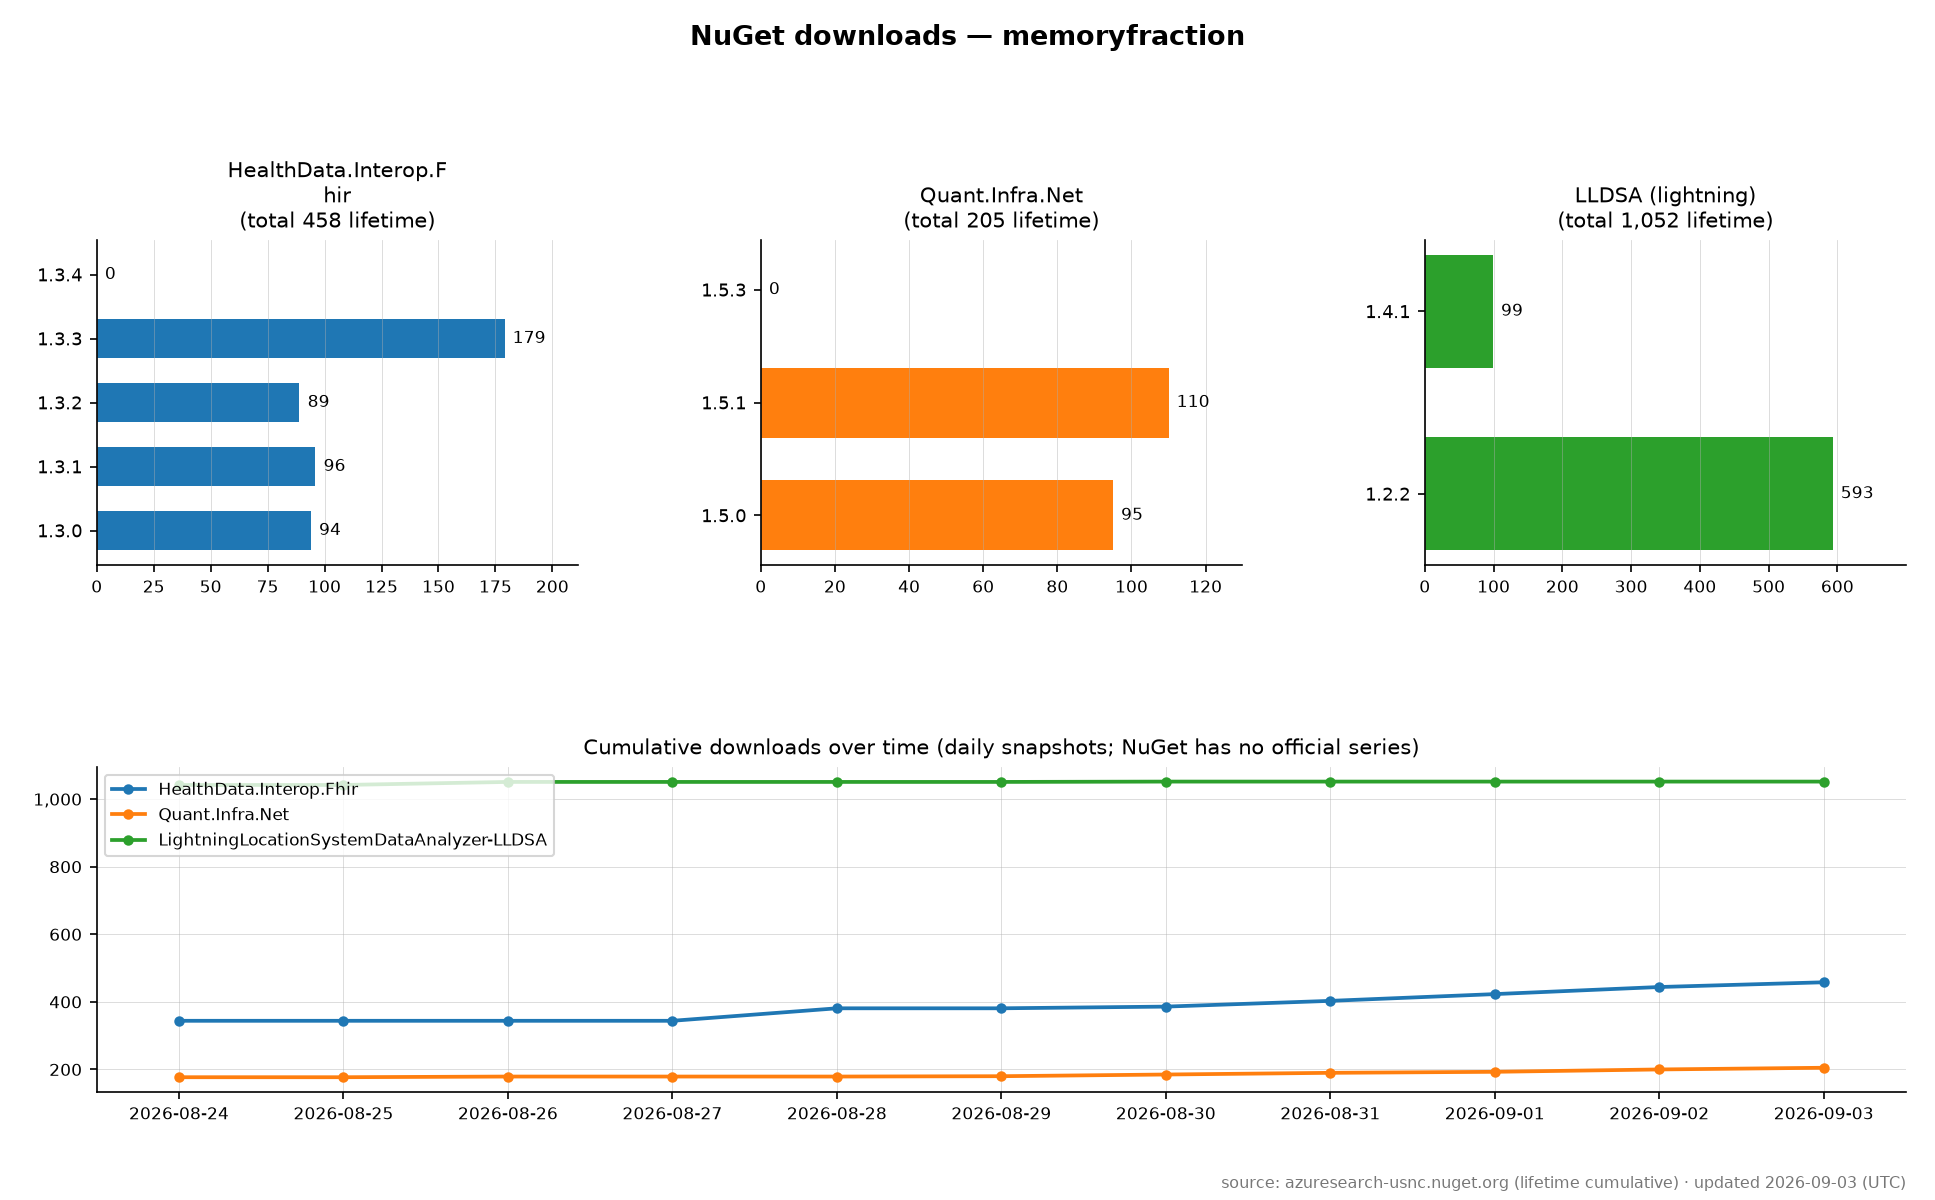
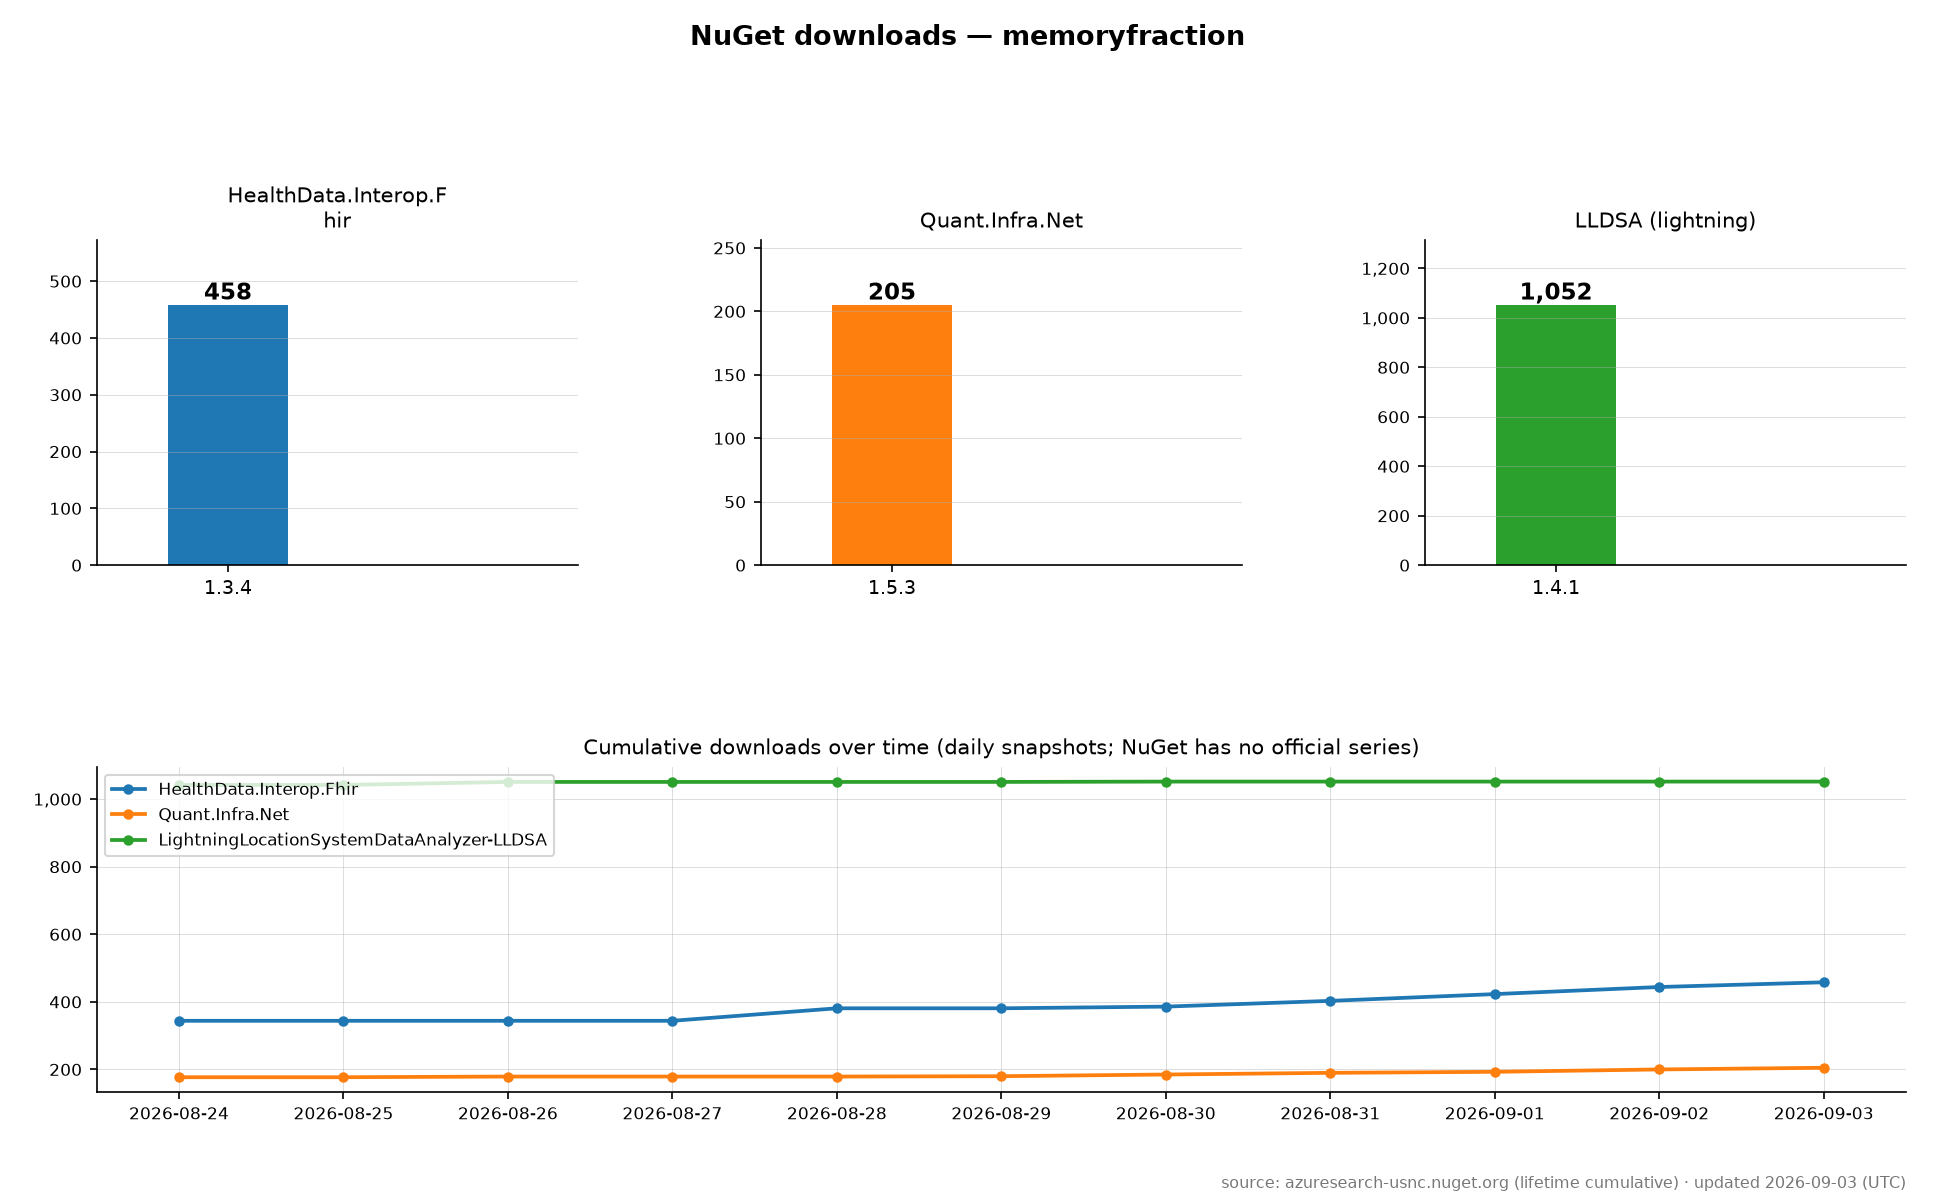
fix(chart): replace per-version bars with per-package lifetime totals
The NuGet search API does not return a reliable per-version cumulative
total for the LATEST version (it comes back 0/empty), so the old
per-version bar breakdown rendered fake zeros (e.g. Fhir 1.3.4, QIN
1.5.3). Chart the reliable per-package lifetime total + latest version
instead, and keep the daily-snapshot trend line. NuGet has no
per-version time series.

diff --git a/scripts/nuget_stats.py b/scripts/nuget_stats.py
@@ -185,34 +185,30 @@ def render_chart(history: list, out_path: Path) -> None:
     gs = gridspec.GridSpec(nrows, ncols, figure=fig, hspace=0.62, wspace=0.38,
                            left=0.05, right=0.985, top=0.80, bottom=0.09)
 
-    # ---- row 0: per-version bars ------------------------------------------
+    # ---- row 0: package-level lifetime totals -----------------------------
+    # NOTE: the NuGet search API does NOT return a reliable per-version
+    # cumulative total for the LATEST version of a package (it comes back
+    # 0 / empty), so a per-version bar breakdown would show fake zeros.
+    # We therefore chart the reliable per-package lifetime total only, plus
+    # the daily-snapshot trend below. (NuGet has no per-version time series.)
     for col, pkg in enumerate(pkgs):
         ax = fig.add_subplot(gs[0, col])
         info = latest["packages"][pkg]
-        versions = info.get("versions") or {}
-        if not versions:
-            ax.text(0.5, 0.5, "no per-version data", ha="center", va="center",
-                    transform=ax.transAxes, color="#888")
-            ax.set_title(pkg, fontsize=10)
-            ax.axis("off")
-            continue
-        items = sorted(versions.items(), key=lambda kv: _semver_key(kv[0]))
-        items = items[-5:]  # show only the 5 latest versions
-        labels = [k for k, _ in items]
-        values = [v for _, v in items]
+        total = int(info.get("total", 0) or 0)
+        latest_version = info.get("latestVersion") or "n/a"
         color = _color(pkg, pkgs)
-        bars = ax.barh(labels, values, color=color, height=0.62)
-        for bar, val in zip(bars, values):
-            ax.text(bar.get_width() + max(values) * 0.02,
-                    bar.get_y() + bar.get_height() / 2,
-                    format(val, ","), va="center", fontsize=8)
-        ax.set_xlim(0, max(values) * 1.18)
-        ax.xaxis.set_major_formatter(FuncFormatter(_fmt_int))
-        ax.tick_params(axis="y", labelsize=8.5)
-        ax.tick_params(axis="x", labelsize=8)
+        bar = ax.bar([0], [total], color=color, width=0.55)
+        ax.text(bar[0].get_x() + bar[0].get_width() / 2.0, total,
+                format(total, ","), ha="center", va="bottom", fontsize=11, weight="bold")
+        ax.set_xlim(-0.6, 1.6)
+        ax.set_ylim(0, max(total, 1) * 1.25)
+        ax.set_xticks([0])
+        ax.set_xticklabels([latest_version], fontsize=9)
+        ax.yaxis.set_major_formatter(FuncFormatter(_fmt_int))
+        ax.tick_params(axis="y", labelsize=8)
         title = (SHORT_NAMES.get(pkg) or "\n".join(textwrap.wrap(pkg, 20))) or pkg
-        ax.set_title(title + "\n(total " + format(info.get("total", 0), ",") + " lifetime)", fontsize=10)
-        ax.grid(axis="x", linewidth=0.4, alpha=0.5)
+        ax.set_title(title, fontsize=10)
+        ax.grid(axis="y", linewidth=0.4, alpha=0.5)
         for s in ("top", "right"):
             ax.spines[s].set_visible(False)
 
